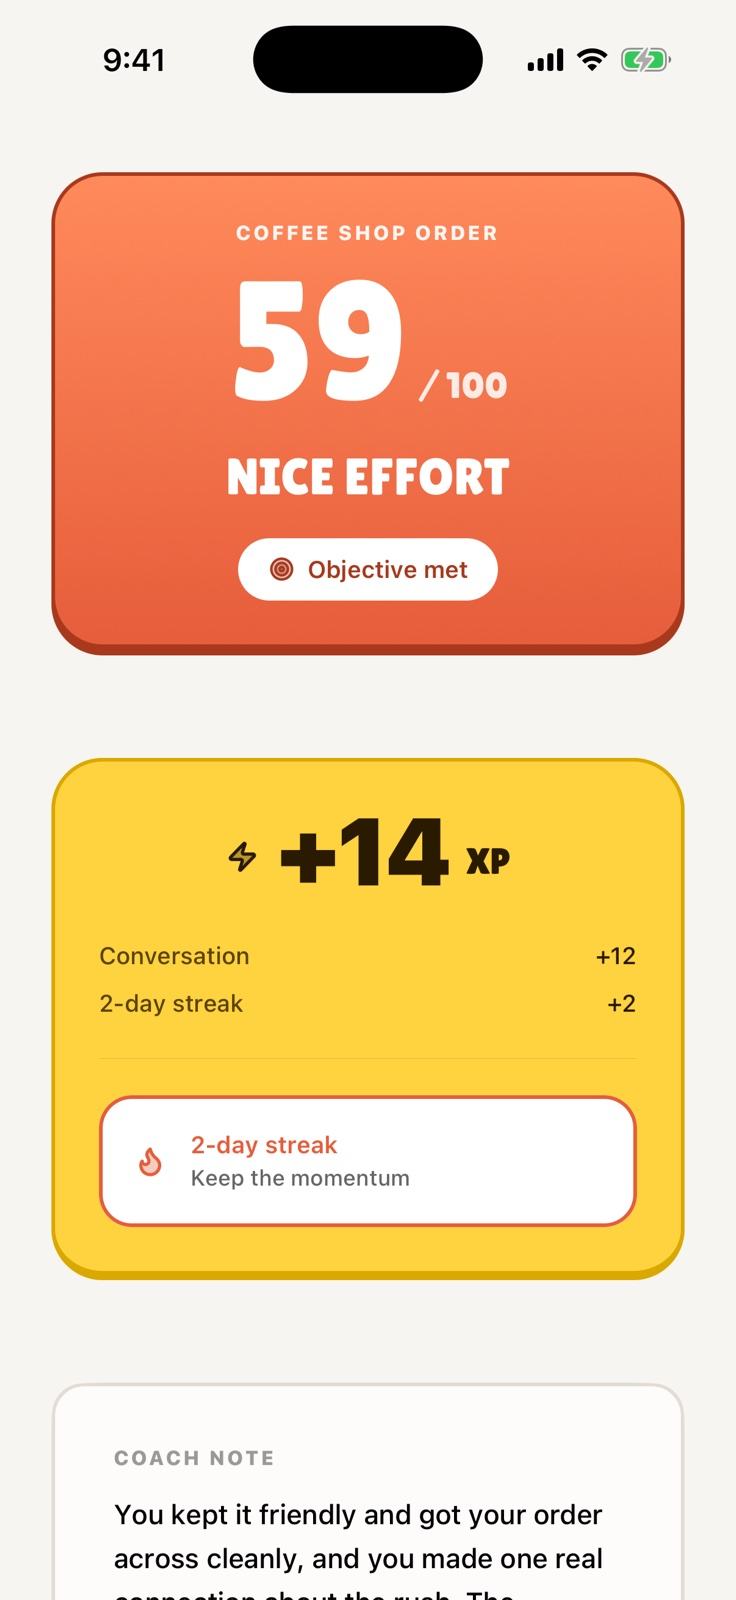
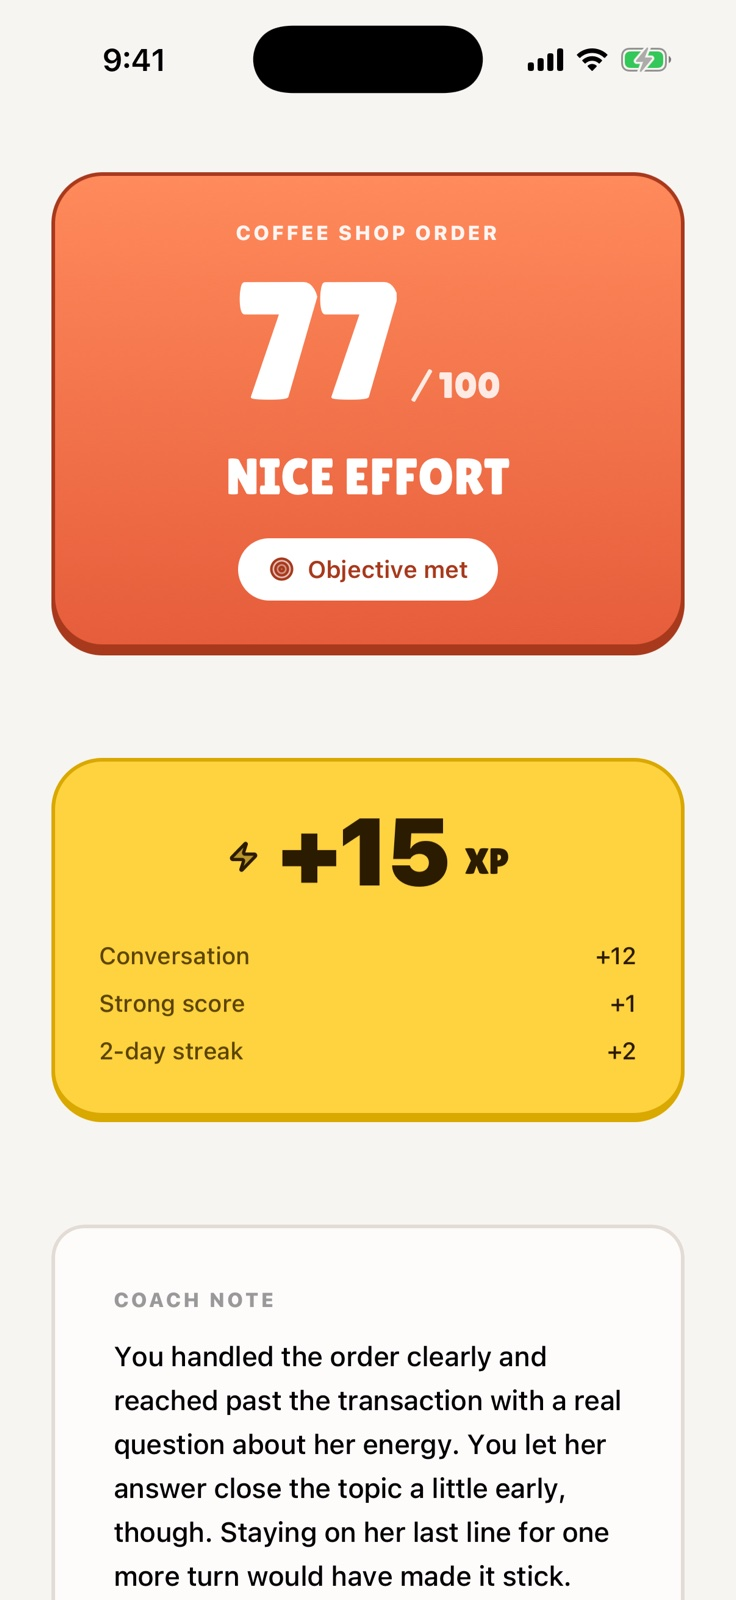
Use a stronger real score screen (77/100, +15 XP)

diff --git a/index.html b/index.html
@@ -620,7 +620,7 @@
         <figcaption><strong>Talk out loud.</strong></figcaption>
       </figure>
       <figure class="shot rv">
-        <img src="screenshots/results-score.jpg" alt="Prosody results screen with a score of 59 out of 100 and the objective met" width="359" height="780" loading="lazy">
+        <img src="screenshots/results-score.jpg" alt="Prosody results screen with a score of 77 out of 100 and the objective met" width="359" height="780" loading="lazy">
         <figcaption><strong>See how it went.</strong></figcaption>
       </figure>
     </div>
@@ -684,10 +684,10 @@
       </ul>
     </div>
     <div class="fb-shot rv">
-      <img src="screenshots/results-score.jpg" alt="Prosody results screen: a score of 59 out of 100, objective met, and an XP breakdown" width="736" height="1600" loading="lazy">
-      <span class="chip chip-a" style="--c:#E4572E"><b>59</b><small>/ 100</small></span>
+      <img src="screenshots/results-score.jpg" alt="Prosody results screen: a score of 77 out of 100, objective met, and an XP breakdown" width="736" height="1600" loading="lazy">
+      <span class="chip chip-a" style="--c:#E4572E"><b>77</b><small>/ 100</small></span>
       <span class="chip chip-b" style="--c:#5BA544"><i class="chip-dot"></i>Objective met</span>
-      <span class="chip chip-c" style="--c:#F0AE28"><i class="chip-dot"></i>+14 XP</span>
+      <span class="chip chip-c" style="--c:#F0AE28"><i class="chip-dot"></i>+15 XP</span>
     </div>
   </div>
 </section>
